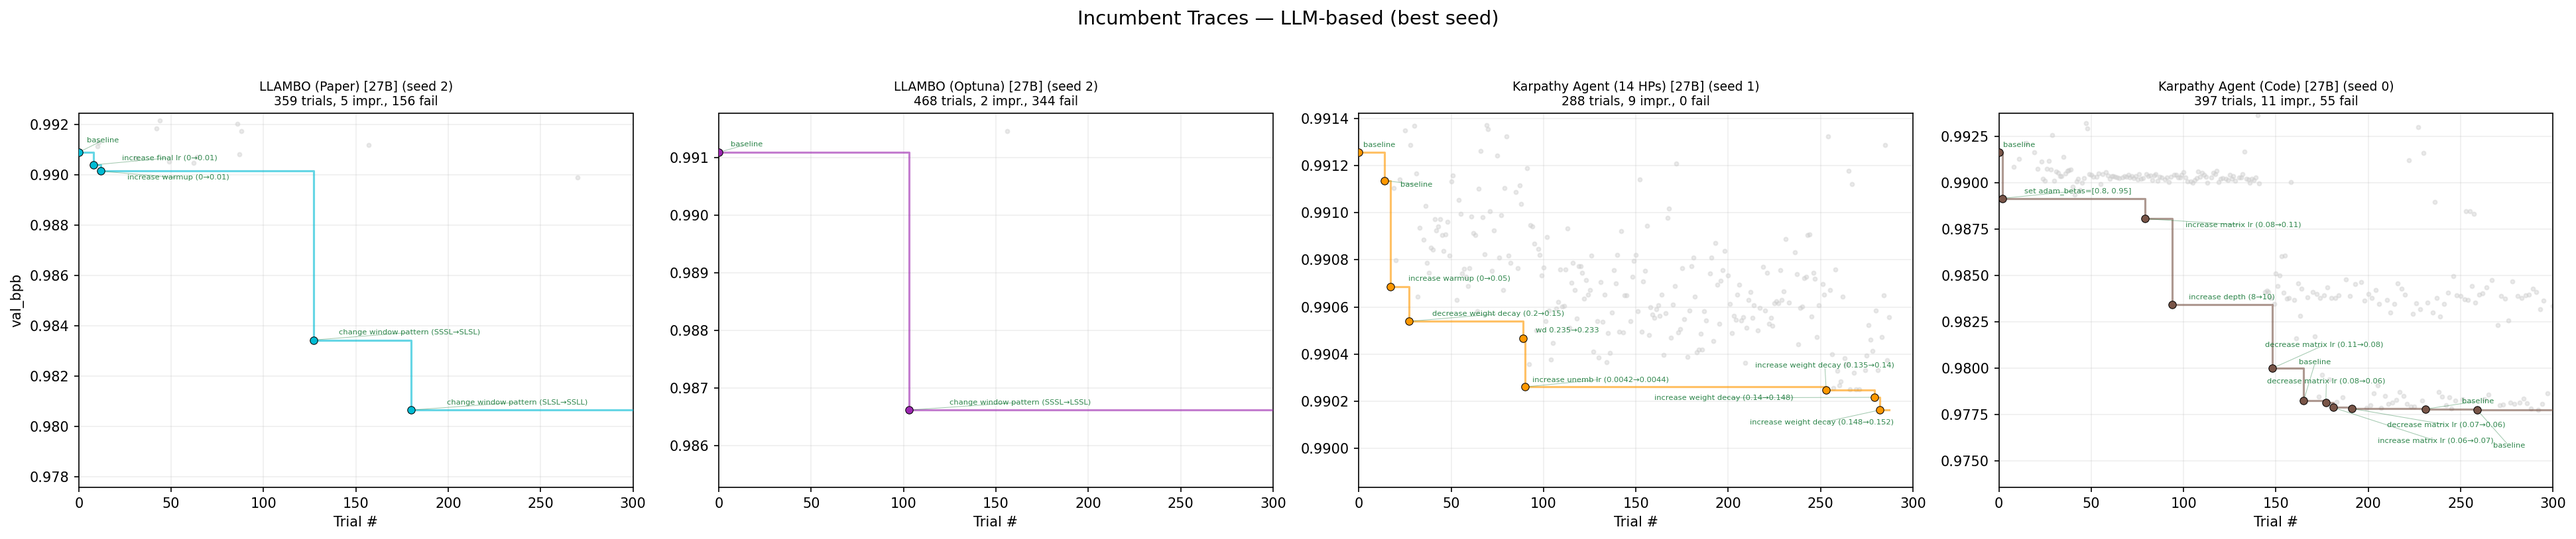
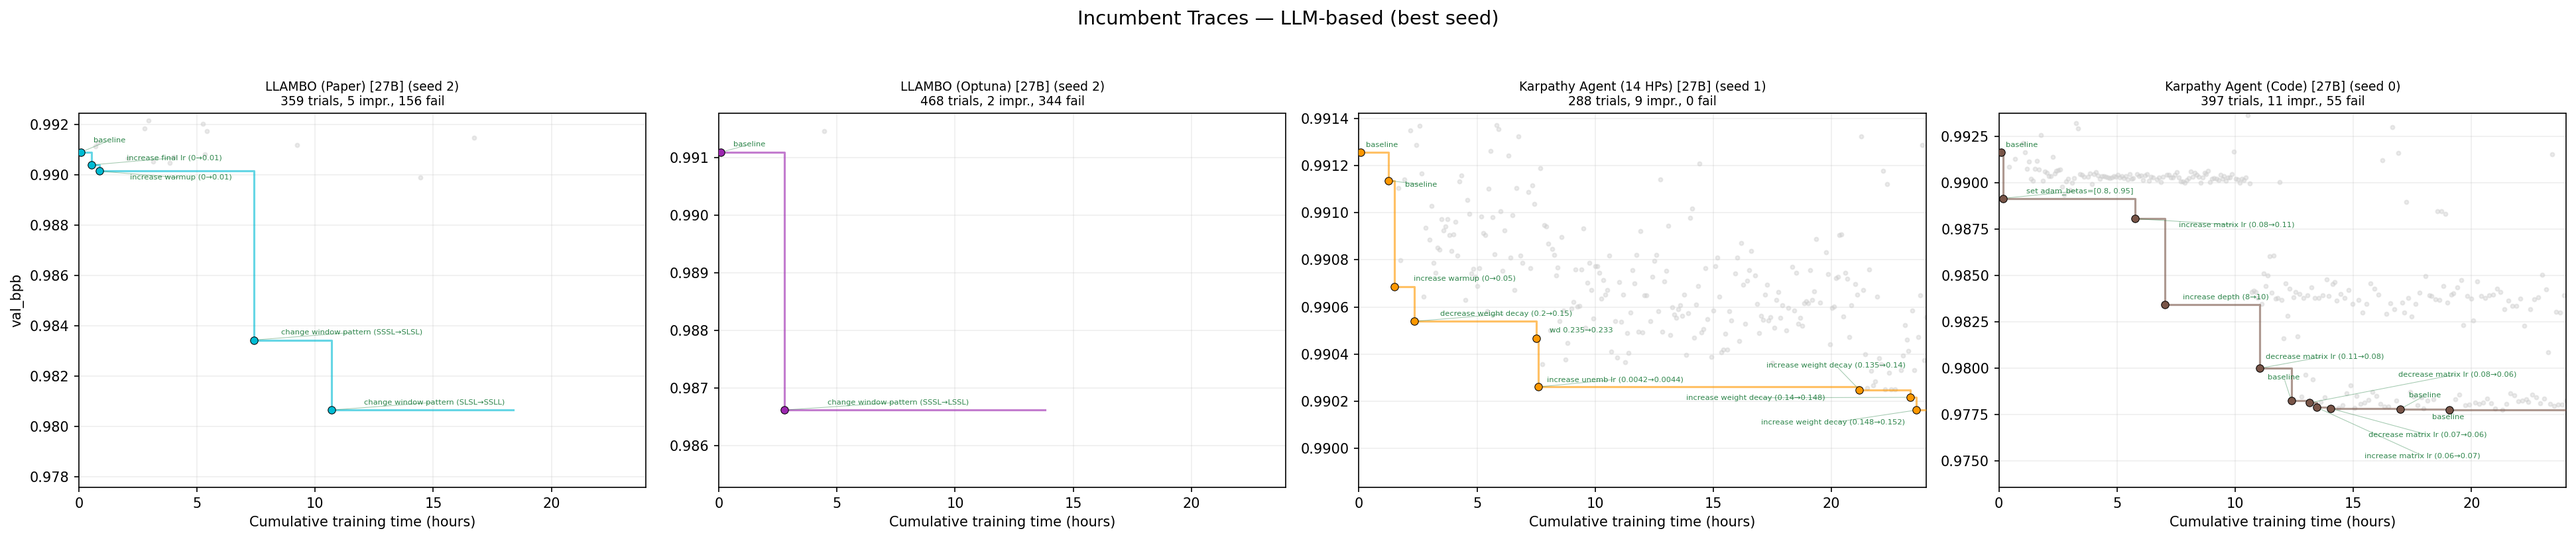
Switch incumbent traces to wall-time x-axis

diff --git a/scripts/plot_convergence.py b/scripts/plot_convergence.py
@@ -505,7 +505,7 @@ def plot_progress(results_dir: Path, assets_dir: Path):
 
 
 def plot_progress_subplot(ax, bench_dir, backend_name, display_name, color, descriptions=None, seed=0):
-    """Draw a single Pareto-front progress plot on the given axes."""
+    """Draw a single Pareto-front progress plot on the given axes (wall-time x-axis)."""
     jsonl = bench_dir / backend_name / f"seed_{seed}" / "trials.jsonl"
     if not jsonl.exists():
         ax.set_title(f"{display_name}\n(no data)", fontsize=10)
@@ -515,22 +515,30 @@ def plot_progress_subplot(ax, bench_dir, backend_name, display_name, color, desc
     if not trials:
         return
 
+    # Compute cumulative wall-time in hours for each trial
+    cum_hours = []
+    cum = 0.0
+    for t in trials:
+        cum += (t.get("wall_time_seconds") or 0.0) / 3600
+        cum_hours.append(cum)
+
     val_bpbs = []
     for t in trials:
         val_bpbs.append(t["val_bpb"] if t["success"] and t["val_bpb"] is not None else None)
 
-    success_x = [i for i, v in enumerate(val_bpbs) if v is not None]
+    success_x = [cum_hours[i] for i, v in enumerate(val_bpbs) if v is not None]
     success_y = [v for v in val_bpbs if v is not None]
 
     best = float("inf")
     incumbents = []
     disc_x, disc_y = [], []
-    for i, v in zip(success_x, success_y):
+    for x, v, i in zip(success_x, success_y,
+                        [i for i, v in enumerate(val_bpbs) if v is not None]):
         if v < best:
             best = v
-            incumbents.append((i, v, trials[i]["config"]))
+            incumbents.append((x, v, trials[i]["config"]))
         else:
-            disc_x.append(i)
+            disc_x.append(x)
             disc_y.append(v)
 
     ax.scatter(disc_x, disc_y, c="#cccccc", s=8, alpha=0.4, zorder=2)
@@ -540,15 +548,19 @@ def plot_progress_subplot(ax, bench_dir, backend_name, display_name, color, desc
     ax.scatter(inc_x, inc_y, c=color, s=30, zorder=4,
                edgecolors="black", linewidths=0.5)
 
-    curve = best_so_far(trials)
-    valid_curve = [(i, v) for i, v in enumerate(curve) if v < float("inf")]
-    if valid_curve:
-        stair_x, stair_y = zip(*valid_curve)
+    # Staircase incumbent curve using wall-time
+    best = float("inf")
+    stair_x, stair_y = [], []
+    for i, t in enumerate(trials):
+        if t["success"] and t["val_bpb"] is not None:
+            best = min(best, t["val_bpb"])
+            stair_x.append(cum_hours[i])
+            stair_y.append(best)
+    if stair_x:
         ax.step(stair_x, stair_y, where="post", color=color,
                 linewidth=1.5, alpha=0.6, zorder=3)
 
     # Annotate incumbents — use LLM descriptions if available, else auto-diff
-    # descriptions: dict mapping trial_idx -> description string
     desc_map = {}
     if descriptions:
         for d in descriptions:
@@ -557,24 +569,29 @@ def plot_progress_subplot(ax, bench_dir, backend_name, display_name, color, desc
     # Build labels for adjustText
     texts = []
     prev_config = None
-    for idx, (trial_i, val, config) in enumerate(incumbents):
-        if trial_i in desc_map:
+    for idx, (x_val, val, config) in enumerate(incumbents):
+        # Try to find trial index for description lookup
+        trial_i = None
+        for ti, t in enumerate(trials):
+            if cum_hours[ti] == x_val and t.get("val_bpb") == val:
+                trial_i = ti
+                break
+        if trial_i is not None and trial_i in desc_map:
             label = desc_map[trial_i]
         elif prev_config is None:
             label = "baseline"
         else:
             label = _config_diff(prev_config, config)
         prev_config = config
-        texts.append(ax.text(trial_i, val, label, fontsize=5.5, color="#1a7a3a", alpha=0.9))
+        texts.append(ax.text(x_val, val, label, fontsize=5.5, color="#1a7a3a", alpha=0.9))
 
     n_fail = sum(1 for t in trials if not t.get("success", False))
     ax.set_title(f"{display_name}\n{len(trials)} trials, {len(incumbents)} impr., {n_fail} fail",
                  fontsize=9)
-    ax.set_xlim(0, 300)
+    ax.set_xlim(0, 24)
     # Auto y-axis: zoom to incumbent range with padding, ignore outliers
     if inc_y:
         ymin = min(inc_y)
-        # Use baseline (first successful trial) as upper bound
         ymax = inc_y[0] if inc_y else 0.996
         margin = (ymax - ymin) * 0.3 or 0.002
         ax.set_ylim(ymin - margin, ymax + margin * 0.5)
@@ -621,7 +638,7 @@ def _plot_incumbent_grid(bench_dir, backends, output_path, title):
             axes[idx], bench_dir, backend, f"{name} (seed {seed})", color,
             descriptions=descs, seed=seed,
         )
-        axes[idx].set_xlabel("Trial #", fontsize=10)
+        axes[idx].set_xlabel("Cumulative training time (hours)", fontsize=10)
     axes[0].set_ylabel("val_bpb", fontsize=10)
 
     fig.suptitle(title, fontsize=14, y=0.98)
